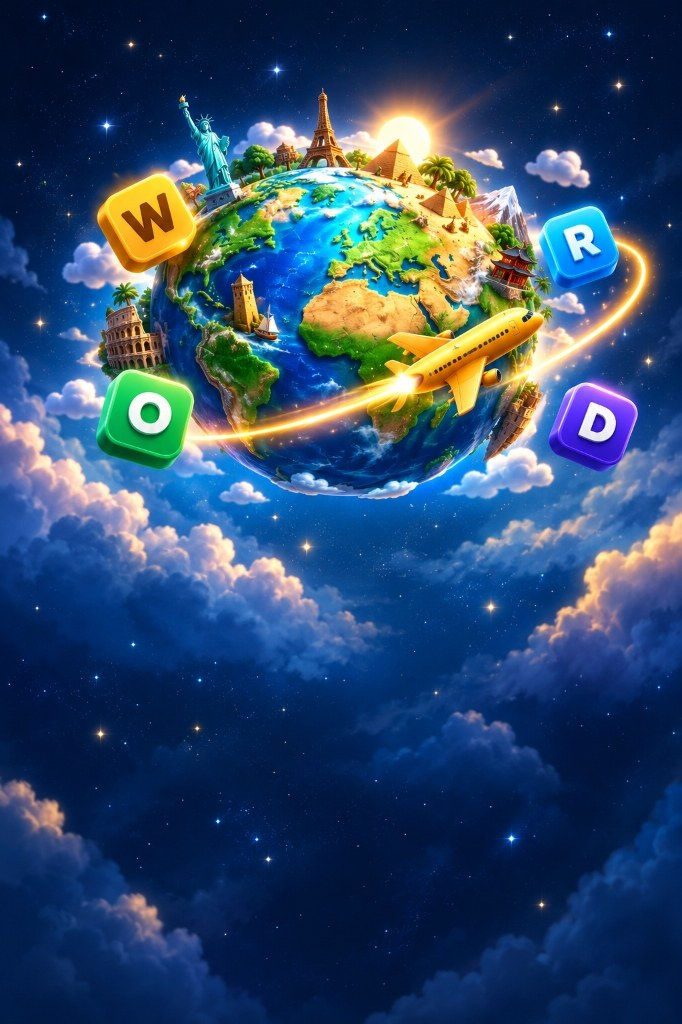
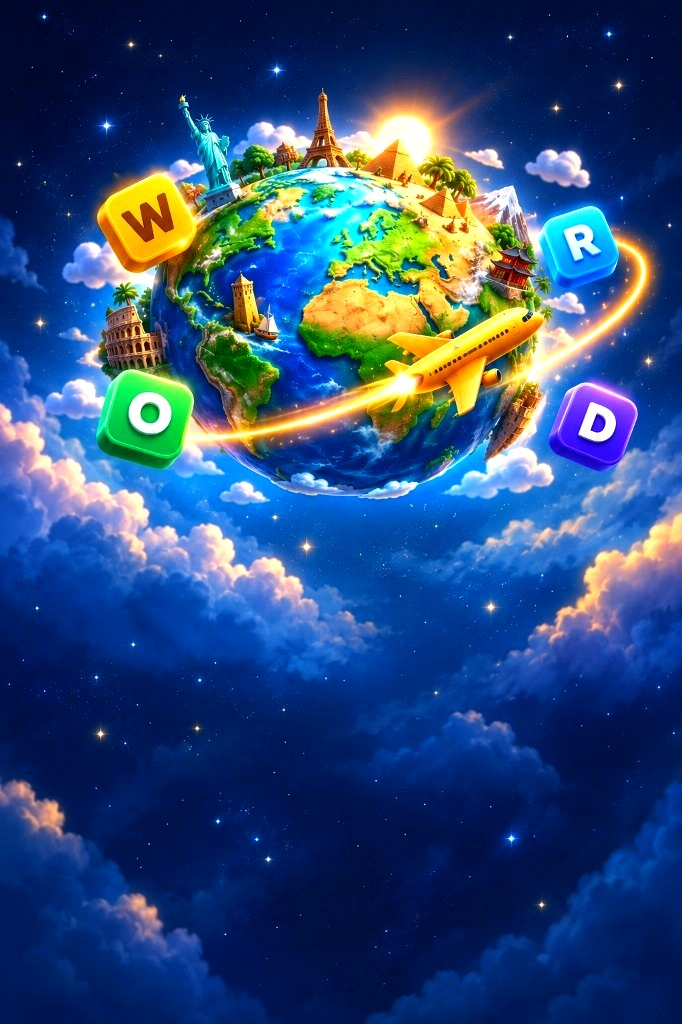
style(home): enhance main menu 3D background vibrancy and brighten artwork

diff --git a/src/components/MainMenu.jsx b/src/components/MainMenu.jsx
@@ -41,15 +41,15 @@ export default function MainMenu({
         <img
           src={getAssetUrl('/assets/art/main_menu_clean_bg.jpg')}
           alt="Word & World Adventure"
-          className="w-full h-full object-cover object-top pointer-events-none select-none"
+          className="w-full h-full object-cover object-top pointer-events-none select-none contrast-[1.05] saturate-[1.10]"
           loading="eager"
           decoding="async"
           fetchPriority="high"
         />
       </picture>
 
-      {/* Subtle atmospheric vignette at the bottom so buttons and cards pop cleanly */}
-      <div className="absolute inset-x-0 bottom-0 h-96 bg-gradient-to-t from-[#040813]/95 via-[#060c1d]/60 to-transparent pointer-events-none z-0" />
+      {/* Subtle atmospheric vignette at the bottom so buttons and cards pop cleanly without dulling the center artwork */}
+      <div className="absolute inset-x-0 bottom-0 h-64 sm:h-72 bg-gradient-to-t from-[#040813]/90 via-[#040813]/25 to-transparent pointer-events-none z-0" />
 
       {/* 2. TOP BAR: Live Interactive Player Profile, Streak, Stars, Audio & Settings (Clean Vector Icons, No AI/Emojis) */}
       <div className="relative z-10 flex items-center justify-between gap-1.5 w-full px-3.5 pt-3 sm:pt-4 shrink-0">
